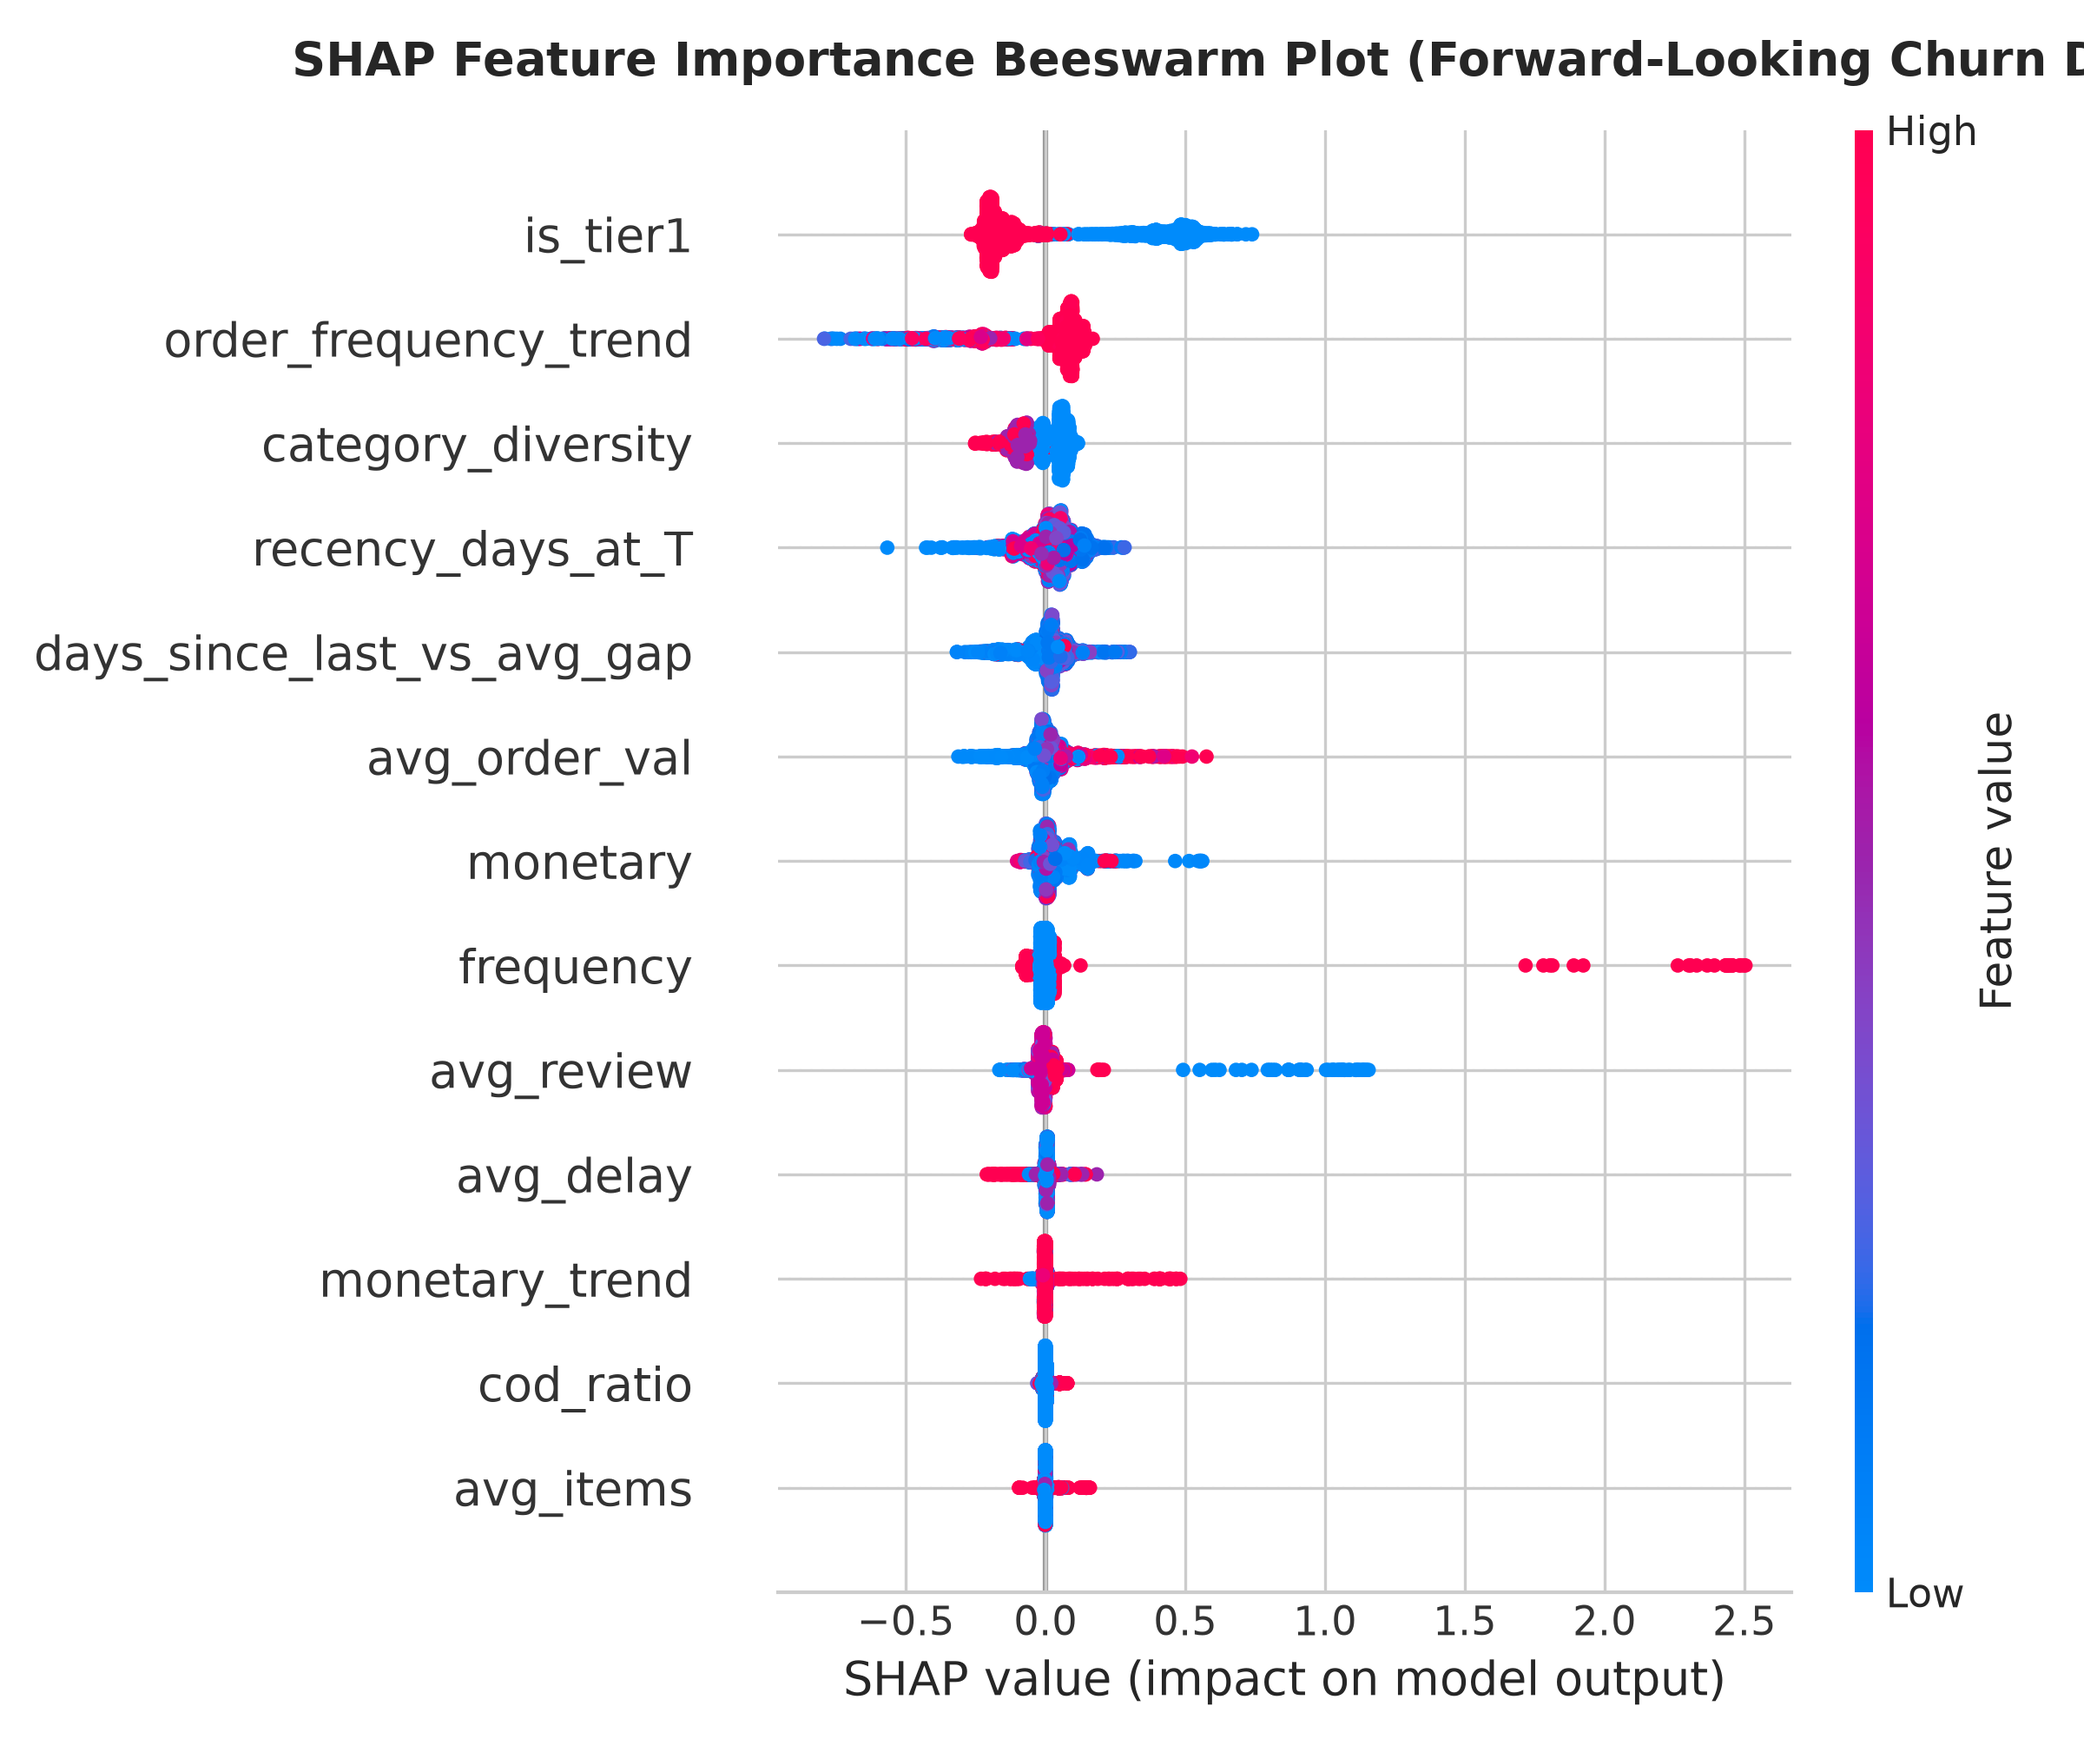
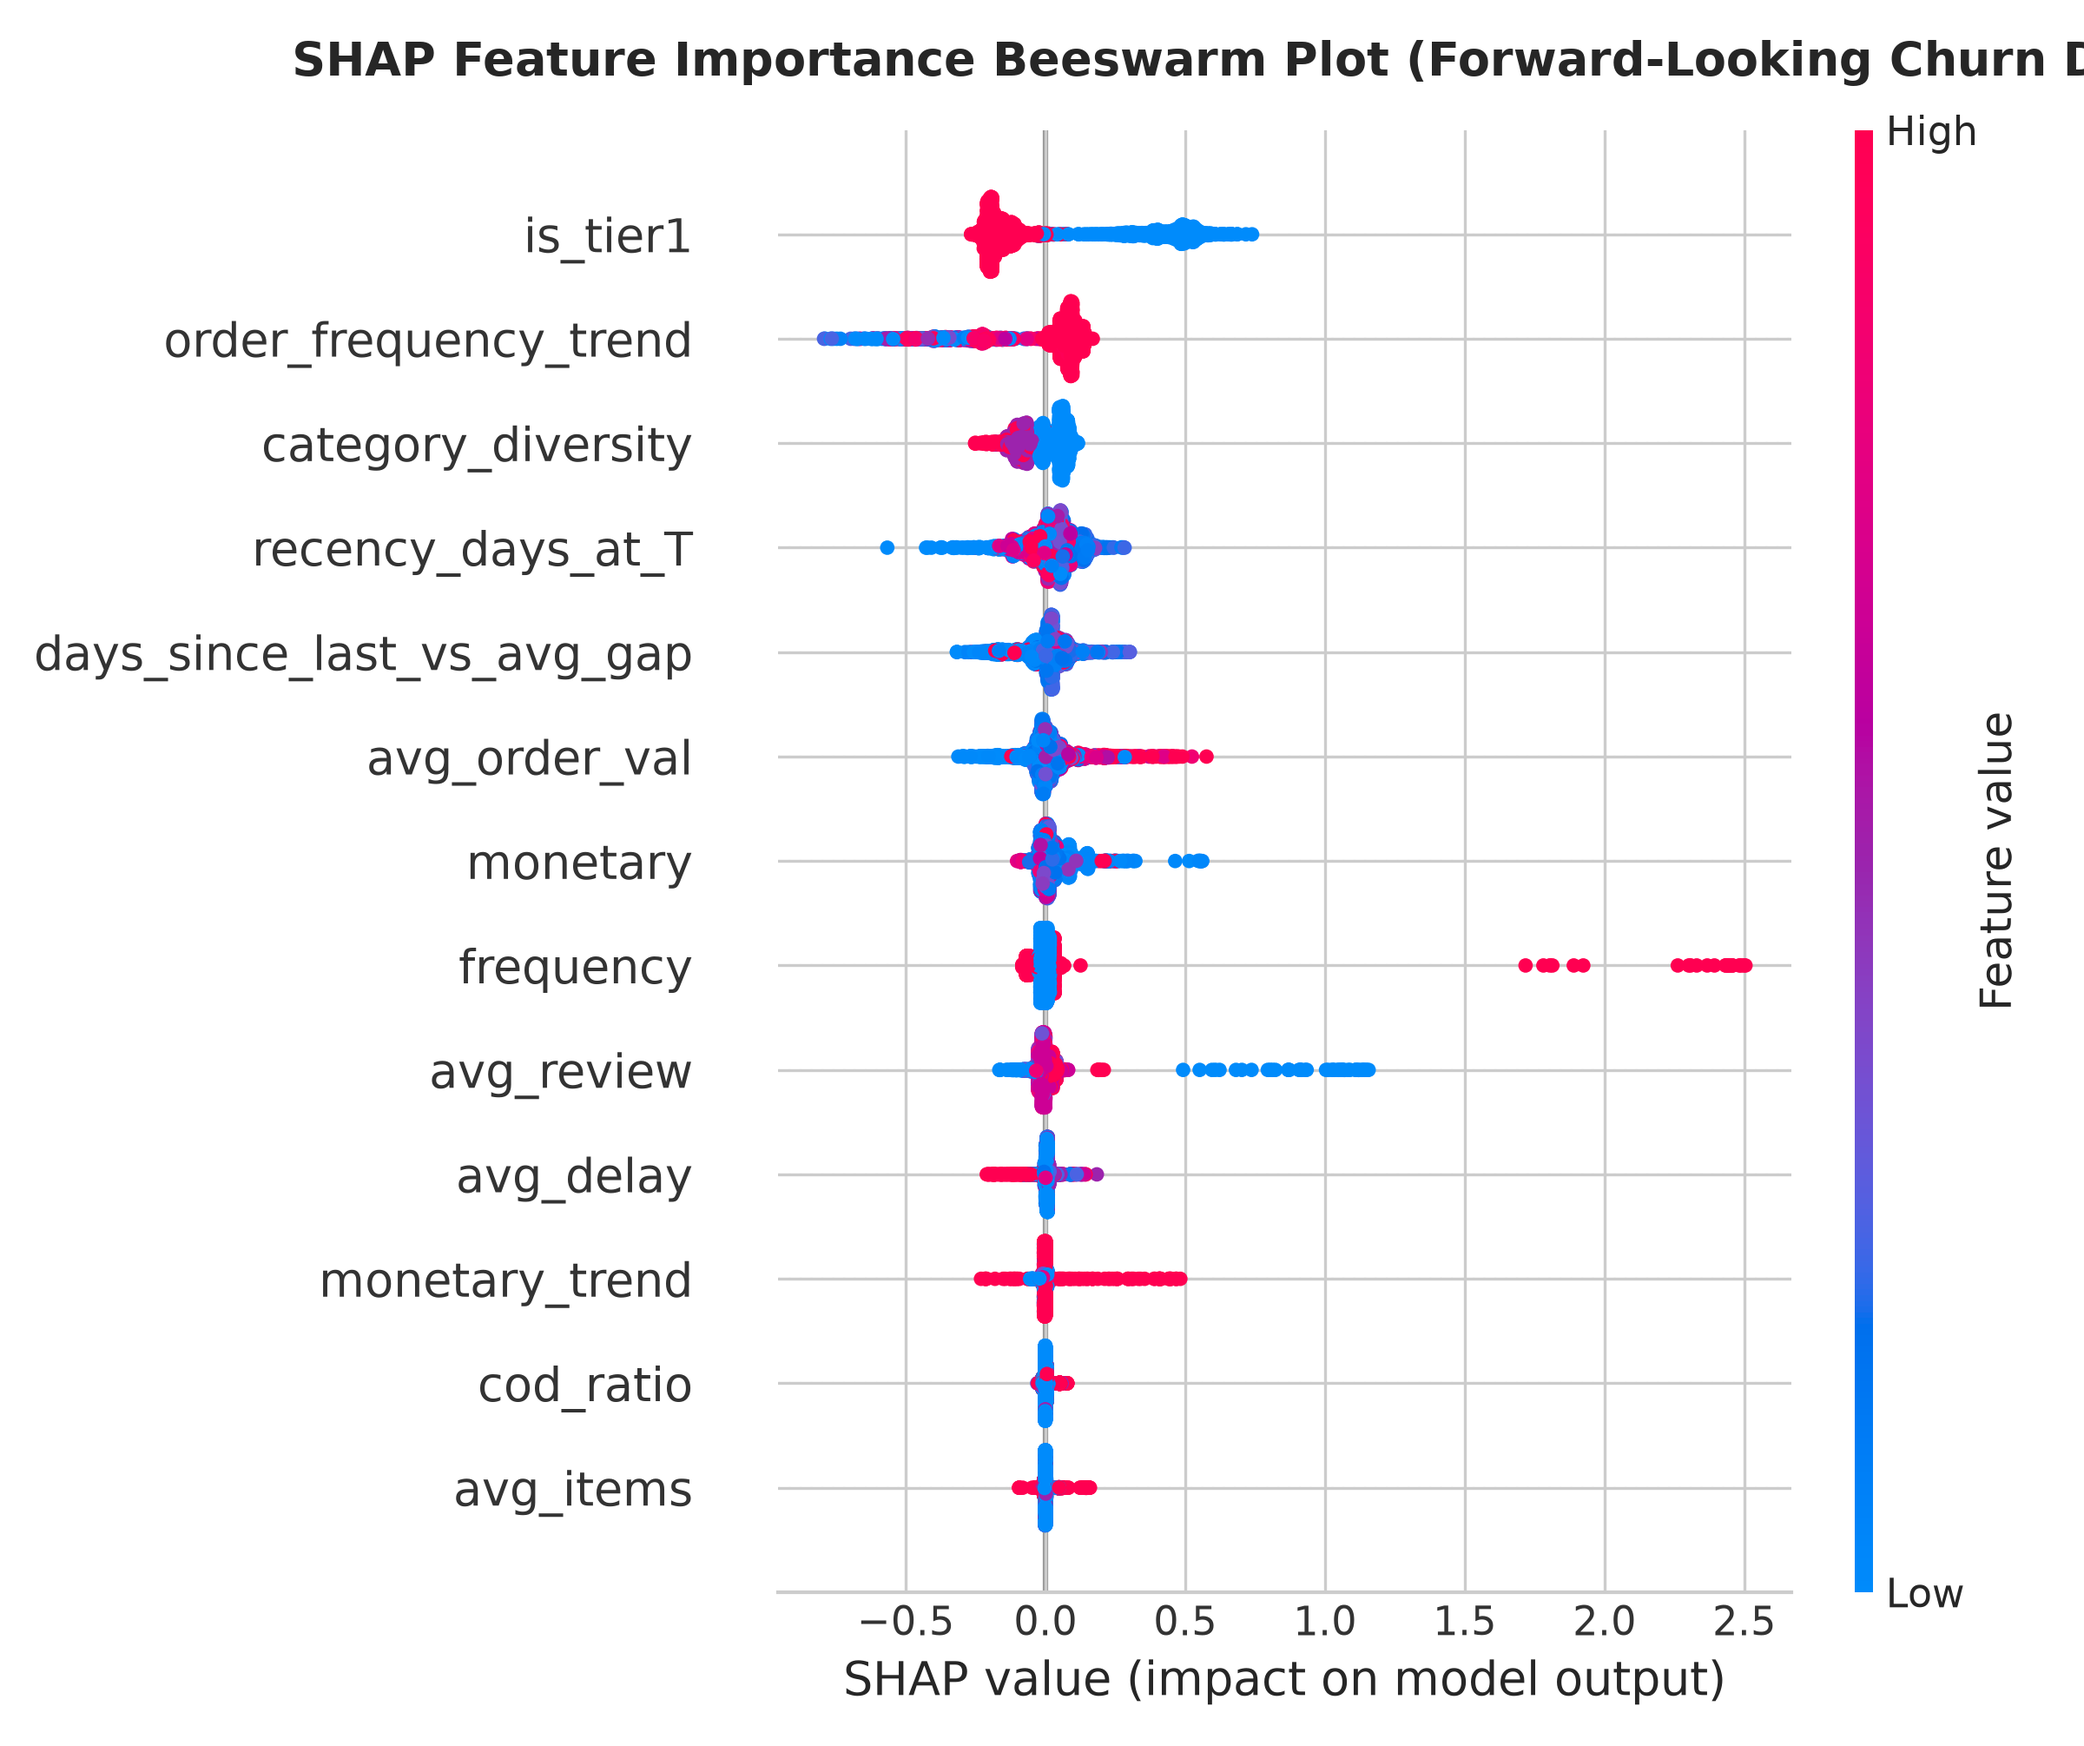
fix(clv): resolve single-order GammaGamma negative prediction bug, update 3x3 matrices and positive revenue simulation

diff --git a/generate_indian_notebook.py b/generate_indian_notebook.py
@@ -531,11 +531,19 @@ ggf = GammaGammaFitter(penalizer_coef=0.001)
 ggf.fit(returning_customers['frequency'], returning_customers['monetary_value'])
 
 overall_avg_order = fact_df['order_total_amount'].mean()
-clv_summary['expected_avg_order_value'] = ggf.conditional_expected_average_profit(
+raw_exp_monetary = ggf.conditional_expected_average_profit(
     clv_summary['frequency'], clv_summary['monetary_value']
-).fillna(overall_avg_order)
+)
 
-clv_summary['predicted_clv_12m'] = clv_summary['predicted_purchases_12m'] * clv_summary['expected_avg_order_value']
+# Fix: For single-order customers (frequency == 0), GammaGamma prediction is undefined (q < 1 yields negative values).
+# Assign overall_avg_order for single-order customers and clip predicted_clv_12m at 0.0 minimum.
+clv_summary['expected_avg_order_value'] = np.where(
+    clv_summary['frequency'] > 0,
+    raw_exp_monetary,
+    overall_avg_order
+)
+
+clv_summary['predicted_clv_12m'] = (clv_summary['predicted_purchases_12m'] * clv_summary['expected_avg_order_value']).clip(lower=0.0)
 
 # Assign CLV Tiers: High (Top 20%), Medium (Middle 30%), Low (Bottom 50%)
 clv_summary['clv_tier'] = pd.qcut(

diff --git a/generate_dashboard_preview.py b/generate_dashboard_preview.py
@@ -14,9 +14,9 @@ funnel_df = pd.DataFrame({
 })
 matrix_df = pd.DataFrame({
     'CLV_Tier': ['Low CLV', 'Medium CLV', 'High CLV'],
-    'High Risk': [3643, 1928, 595],
-    'Medium Risk': [3063, 2811, 292],
-    'Low Risk': [2543, 809, 2813]
+    'High Risk': [2952, 1956, 1258],
+    'Medium Risk': [2943, 2103, 1119],
+    'Low Risk': [3354, 1489, 1323]
 }).set_index('CLV_Tier')
 
 fig = plt.figure(figsize=(16, 10), facecolor='#f8f9fa')
@@ -30,8 +30,8 @@ kpis = [
     ('Total Delivered Revenue', 'Rs. 11.03 Cr', '#1f77b4'),
     ('Delivered Customers', '18,497', '#2ca02c'),
     ('Repeat Purchase Rate', '25.49%', '#ff7f0e'),
-    ('High Risk + High CLV Headcount', '595', '#d62728'),
-    ('Protected Revenue (@20% Win Rate)', 'Rs. 4.90 Lakhs', '#9467bd')
+    ('High Risk + High CLV Headcount', '1,258', '#d62728'),
+    ('Protected Revenue (@20% Win Rate)', 'Rs. 9.08 Lakhs', '#9467bd')
 ]
 
 for idx, (title, val, color) in enumerate(kpis):

diff --git a/EXECUTIVE_SUMMARY.md b/EXECUTIVE_SUMMARY.md
@@ -33,19 +33,19 @@ Acquisition-focused growth without post-purchase retention leads to leaky-bucket
 
 | Customer Segment | Risk & Value Quadrant | Headcount | Prescriptive Strategy & Action | Projected Impact |
 | :--- | :--- | :---: | :--- | :--- |
-| **High Risk + High CLV** | Critical At-Risk VIPs | **595** | **VIP Urgent Retention:** Dedicated concierge outreach + ₹1,500 exclusive category voucher. | Protects **₹4.90 Lakhs** in annual revenue @ 20% win rate (out of ₹24.48L total risk). |
-| **High Risk + Medium CLV** | Win-Back Targets | **1,928** | **Automated Win-Back Campaign:** Targeted 15% category discount offer. | Re-engages mid-tier buyers before complete dormancy. |
-| **High Risk + Low CLV** | Low-Value Churners | **3,643** | **Low-Cost Push Notification Series:** Automated lifecycle notifications. | Zero discount spend passive re-engagement. |
-| **Medium Risk + High CLV** | High-Potential Growth | **292** | **Proactive Engagement & Cross-Sell:** Product recommendations + category discovery. | Safeguards **₹8.53 Lakhs** total expected CLV. |
-| **Low Risk + High CLV** | Brand Champions | **2,813** | **VIP Loyalty Program:** Early sale access, priority delivery, & rewards. | Protects **₹48.42 Lakhs** top spender CLV & advocacy. |
+| **High Risk + High CLV** | Critical At-Risk VIPs | **1,258** | **VIP Urgent Retention:** Dedicated concierge outreach + ₹1,500 exclusive category voucher. | Protects **₹9.08 Lakhs** in annual revenue @ 20% win rate (out of ₹45.40L total risk). |
+| **High Risk + Medium CLV** | Win-Back Targets | **1,956** | **Automated Win-Back Campaign:** Targeted 15% category discount offer. | Re-engages mid-tier buyers before complete dormancy (₹21.35L total risk). |
+| **High Risk + Low CLV** | Low-Value Churners | **2,952** | **Low-Cost Push Notification Series:** Automated lifecycle notifications. | Zero discount spend passive re-engagement (₹14.78L total risk). |
+| **Medium Risk + High CLV** | High-Potential Growth | **1,119** | **Proactive Engagement & Cross-Sell:** Product recommendations + category discovery. | Safeguards **₹25.90 Lakhs** total expected CLV. |
+| **Low Risk + High CLV** | Brand Champions | **1,323** | **VIP Loyalty Program:** Early sale access, priority delivery, & rewards. | Protects **₹31.79 Lakhs** top spender CLV & advocacy. |
 
 ---
 
 ## 💰 Projected Financial Impact
-By executing the **VIP Urgent Retention Strategy** on the 595 High Risk + High CLV customers (avg. expected spend ₹4,113.49):
-- **At 10% Campaign Win Rate:** Protects **₹2.45 Lakhs** in annual net revenue.
-- **At 20% Campaign Win Rate:** Protects **₹4.90 Lakhs** in annual net revenue.
-- **At 30% Campaign Win Rate:** Protects **₹7.34 Lakhs** in annual net revenue.
+By executing the **VIP Urgent Retention Strategy** on the 1,258 High Risk + High CLV customers (avg. expected spend ₹3,609.12):
+- **At 10% Campaign Win Rate:** Protects **₹4.54 Lakhs** in annual net revenue.
+- **At 20% Campaign Win Rate:** Protects **₹9.08 Lakhs** in annual net revenue.
+- **At 30% Campaign Win Rate:** Protects **₹13.62 Lakhs** in annual net revenue.
 
 ---
 

diff --git a/README.md b/README.md
@@ -93,9 +93,9 @@ D:\Ssshhhh\Projexts\E commerce\
 
 | Churn Risk Tier | Low CLV (Bottom 50%) | Medium CLV (Middle 30%) | High CLV (Top 20%) | Action Strategy | Total Headcount |
 | :--- | :---: | :---: | :---: | :--- | :---: |
-| **High Risk** (Top 33.3%) | 3,643 | 1,928 | **595** | **High CLV:** VIP Concierge Call + ₹1,500 Voucher<br>**Med CLV:** Win-Back 15% Discount Offer<br>**Low CLV:** Automated Low-Cost Push Series | **6,166** |
-| **Medium Risk** (Middle 33.3%) | 3,063 | 2,811 | 292 | Proactive Product Cross-Sell & Engagement | **6,166** |
-| **Low Risk** (Bottom 33.3%) | 2,543 | 809 | 2,813 | VIP Loyalty Program & Early Sale Access | **6,165** |
+| **High Risk** (Top 33.3%) | 2,952 | 1,956 | **1,258** | **High CLV:** VIP Concierge Call + ₹1,500 Voucher<br>**Med CLV:** Win-Back 15% Discount Offer<br>**Low CLV:** Automated Low-Cost Push Series | **6,166** |
+| **Medium Risk** (Middle 33.3%) | 2,943 | 2,103 | 1,119 | Proactive Product Cross-Sell & Engagement | **6,165** |
+| **Low Risk** (Bottom 33.3%) | 3,354 | 1,489 | 1,323 | VIP Loyalty Program & Early Sale Access | **6,166** |
 | **Total Customer Headcount** | **9,249** | **5,548** | **3,700** | **All Scored Delivered Customers** | **18,497** |
 
 ---
